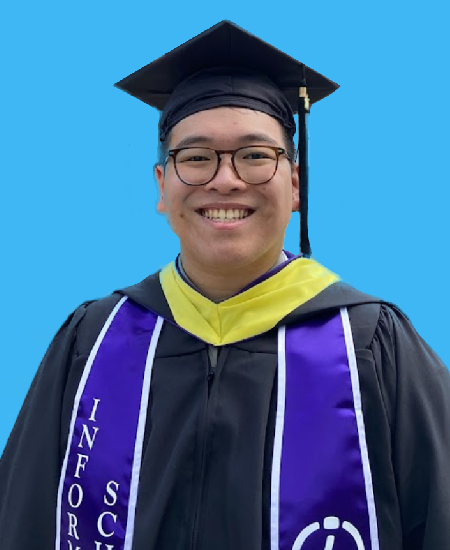
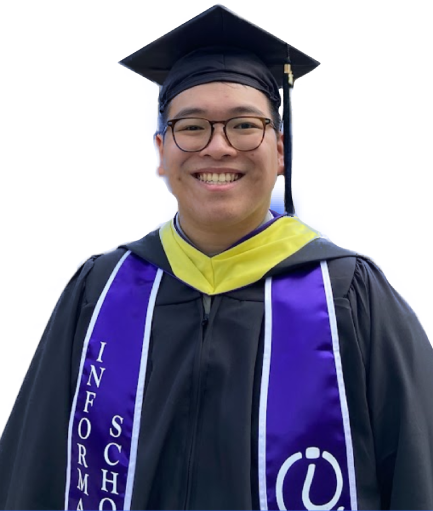
headshot fix

diff --git a/assets/css/styles.css b/assets/css/styles.css
@@ -306,7 +306,7 @@ img{
 }
 
 .home__blob-img{
-    width: 250px;
+    width: 180px;
 }
 
 .home__data{
